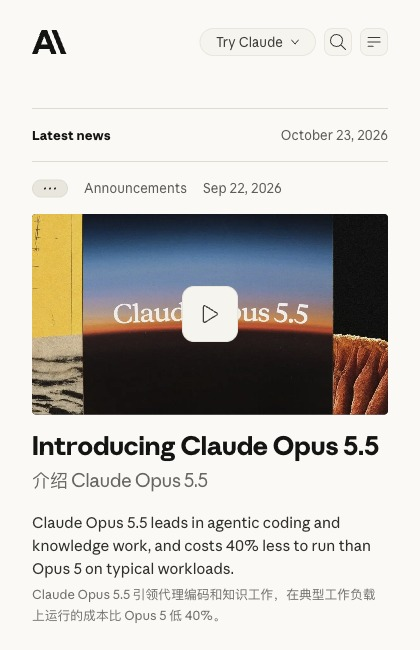
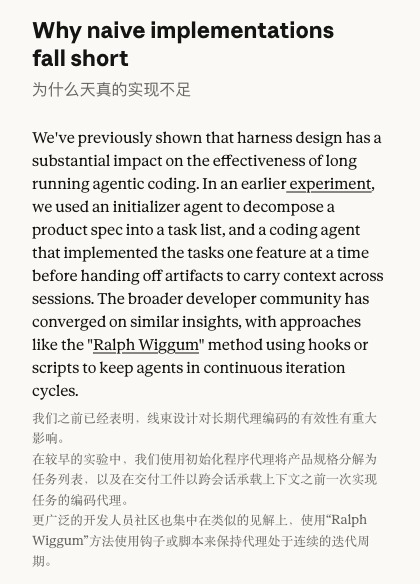
Clarify translation direction preparation and refresh reading example

diff --git a/src/ui/model-packs.ts b/src/ui/model-packs.ts
@@ -13,7 +13,7 @@ const SAMPLES: Record<SourceLanguage, string> = {
 type Key = SourceLanguage | 'detector';
 interface Pack {
   key: Key; availability: Availability; status: string; progress?: number;
-  phase: 'idle' | 'loading' | 'ready' | 'error'; controller?: AbortController;
+  phase: 'checking' | 'idle' | 'loading' | 'ready' | 'error'; controller?: AbortController;
   done?: Promise<void>; session?: NativeTranslator | NativeDetector;
 }
 
@@ -35,7 +35,7 @@ export class ModelPacks {
     this.sources = [...sources];
     for (const [key, pack] of this.packs) if (key !== 'detector' && !sources.includes(key)) { this.cancel(pack); this.packs.delete(key); }
     const keys: Key[] = [...sources, 'detector']; const apis = nativeAPIs(); const epoch = ++this.epoch;
-    for (const key of keys) if (!this.packs.has(key)) this.packs.set(key, { key, availability: 'downloadable', phase: 'idle', status: '正在检查…' });
+    for (const key of keys) if (!this.packs.has(key)) this.packs.set(key, { key, availability: 'downloadable', phase: 'checking', status: '正在检查…' });
     this.render();
     await Promise.all(keys.map(async key => {
       const pack = this.packs.get(key)!; if (pack.controller || pack.phase === 'ready') return;
@@ -44,7 +44,9 @@ export class ModelPacks {
       const availability = await probe?.catch(() => 'unavailable' as const) ?? 'unavailable';
       if (epoch !== this.epoch || pack.controller || !this.packs.has(key)) return;
       pack.availability = availability; pack.phase = availability === 'available' ? 'ready' : 'idle';
-      pack.status = availability === 'available' ? '已就绪' : availability === 'unavailable' ? '当前浏览器暂不支持' : availability === 'downloading' ? '下载尚未完成，点击继续' : '需要下载'; this.render();
+      // Chrome may report downloadable even when resources are cached. Only a
+      // native downloadprogress event is presented as download progress.
+      pack.status = availability === 'available' ? '已就绪' : availability === 'unavailable' ? '当前浏览器暂不支持' : '待准备'; this.render();
     }));
     this.render();
   }
@@ -62,8 +64,8 @@ export class ModelPacks {
         card = document.createElement('div'); card.className = `pack-card${key === 'detector' ? ' detector-card' : ''}`; card.dataset.language = key;
         const top = document.createElement('div'); top.className = 'pack-top';
         const info = document.createElement('div'); info.className = 'pack-info';
-        const name = document.createElement('div'); name.className = 'pack-name'; name.textContent = key === 'detector' ? '语言识别包' : languageLabel(key);
-        name.title = key === 'detector' ? '所有语言共用' : `${languageLabel(key)} → ${languageLabel(this.target)}`;
+        const name = document.createElement('div'); name.className = 'pack-name'; name.textContent = key === 'detector' ? '语言识别' : `${languageLabel(key)} → ${languageLabel(this.target)}`;
+        name.title = key === 'detector' ? '所有翻译方向共用' : name.textContent;
         const status = document.createElement('div'); status.className = 'pack-status'; status.setAttribute('role', 'status');
         info.append(name, status);
         const button = document.createElement('button'); button.type = 'button'; button.className = 'button secondary small pack-action';
@@ -79,38 +81,48 @@ export class ModelPacks {
       const status = card.querySelector<HTMLElement>('.pack-status')!;
       status.dataset.state = pack.phase; status.textContent = pack.status;
       const button = card.querySelector<HTMLButtonElement>('button')!;
-      const action = pack.controller ? '取消' : pack.phase === 'ready' ? '检查' : pack.phase === 'error' ? '重试' : '下载';
-      const label = `${action}${key === 'detector' ? '语言识别包' : languageLabel(key) + '语言包'}`;
+      const direction = key === 'detector' ? '语言识别' : `${languageLabel(key)} → ${languageLabel(this.target)}`;
+      const action = pack.controller ? '取消准备' : pack.phase === 'ready' ? '重新检查' : pack.phase === 'error' ? '重试准备' : '准备';
+      const label = `${action}${direction}`;
       button.setAttribute('aria-label', label); button.title = label; button.dataset.state = pack.phase;
-      button.disabled = pack.availability === 'unavailable' || key === this.target;
+      button.disabled = pack.phase === 'checking' || pack.availability === 'unavailable' || key === this.target;
       const progress = button.querySelector<SVGSVGElement>('svg')!;
       progress.style.display = pack.controller ? '' : 'none'; progress.classList.toggle('indeterminate', pack.progress === undefined);
-      progress.setAttribute('aria-label', `${key === 'detector' ? '语言识别包' : languageLabel(key)}下载进度`);
+      progress.setAttribute('aria-label', `${direction}${pack.progress === undefined ? '准备' : '下载'}进度`);
       if (pack.progress !== undefined) { progress.setAttribute('aria-valuenow', String(Math.round(pack.progress * 100))); progress.setAttribute('aria-valuetext', `${Math.round(pack.progress * 100)}%`); }
       else { progress.removeAttribute('aria-valuenow'); progress.setAttribute('aria-valuetext', '正在准备'); }
       (progress.querySelector('.circle-fill') as SVGCircleElement).style.strokeDashoffset = String(100 - (pack.progress ?? .22) * 100);
       let symbol = button.querySelector<HTMLElement>('.pack-symbol');
       if (!symbol) { symbol = document.createElement('span'); symbol.className = 'pack-symbol'; symbol.setAttribute('aria-hidden', 'true'); button.append(symbol); }
-      symbol.textContent = pack.controller ? '×' : key === this.target ? '—' : pack.phase === 'ready' ? '✓' : pack.phase === 'error' ? '↻' : '↓';
+      symbol.textContent = pack.controller ? '×' : key === this.target ? '—' : pack.phase === 'ready' ? '✓' : pack.phase === 'error' ? '重试' : '准备';
       if (this.host.children[index] !== card) this.host.insertBefore(card, this.host.children[index] ?? null);
     });
     const ready = this.ready(); const all = this.sources.every(source => this.packs.get(source)?.phase === 'ready') && detector?.phase === 'ready';
-    this.summary.textContent = this.sources.every(source => source === this.target) ? '源语言和目标语言相同，无需翻译。' : all ? '所选语言包已就绪' : ready ? '已就绪的语言可以使用，其余语言需先下载语言包。' : '首次使用需下载语言包，完成后在本地翻译。';
+    const checking = [...this.packs.values()].some(pack => pack.phase === 'checking');
+    const loading = [...this.packs.values()].some(pack => pack.controller);
+    const supported = this.sources.some(source => source !== this.target && this.packs.get(source)?.availability !== 'unavailable');
+    this.summary.textContent = this.sources.every(source => source === this.target) ? '源语言和目标语言相同，无需翻译。'
+      : checking ? '正在检查当前翻译方向…'
+      : all ? '所选翻译方向已就绪'
+      : loading ? '正在准备，已有模型会复用，缺少时按需下载。'
+      : ready ? '已就绪的方向可以使用，其余方向需先准备。'
+      : !supported ? '当前浏览器暂不支持所选翻译方向。'
+      : '点击“准备”启用当前方向；已有模型会复用，缺少时按需下载。';
     this.changed(ready);
   }
   private cancel(pack: Pack): void {
     pack.controller?.abort(); pack.controller = undefined; pack.session?.destroy(); pack.session = undefined;
-    if (pack.phase === 'loading') { pack.phase = 'idle'; pack.status = '已取消，可继续下载'; pack.progress = undefined; }
+    if (pack.phase === 'loading') { pack.phase = 'idle'; pack.status = '已取消，可继续准备'; pack.progress = undefined; }
   }
   private start(pack: Pack): void {
-    if (!pack || pack.controller || pack.availability === 'unavailable') return;
+    if (!pack || pack.phase === 'checking' || pack.controller || pack.availability === 'unavailable') return;
     const controller = new AbortController(); pack.controller = controller; pack.phase = 'loading'; pack.progress = undefined; pack.status = '正在准备…';
     const apis = nativeAPIs();
     const current = () => pack.controller === controller && !controller.signal.aborted && this.packs.get(pack.key) === pack;
     const monitor = (m: import('../providers/native-types').ProgressMonitor) => m.addEventListener('downloadprogress', event => {
       if (!current() || !Number.isFinite(event.loaded)) return;
       pack.progress = Math.min(1, Math.max(pack.progress ?? 0, event.loaded));
-      pack.status = pack.progress === 1 ? '下载完成，正在准备…' : `正在下载 · ${Math.round(pack.progress * 100)}%`; this.render();
+      pack.status = pack.progress === 1 ? '正在完成准备…' : `正在下载 · ${Math.round(pack.progress * 100)}%`; this.render();
     });
     // Do not await availability here: create must retain Chrome's transient activation.
     let creating: Promise<NativeTranslator | NativeDetector>;
@@ -122,7 +134,7 @@ export class ModelPacks {
       session = await creating;
       if (!current()) { session.destroy(); return; }
       pack.session = session;
-      pack.status = '正在验证…'; this.render();
+      pack.status = '正在完成准备…'; this.render();
       if (pack.key === 'detector') {
         const result = await (session as NativeDetector).detect(SAMPLES.en, { signal: controller.signal });
         if (!result.length) throw new Error('empty_detection');

diff --git a/tests/model-packs.test.ts b/tests/model-packs.test.ts
@@ -1,0 +1,97 @@
+import { beforeEach, describe, expect, it, vi } from 'vitest';
+import { ModelPacks } from '../src/ui/model-packs';
+import type { Availability, NativeTranslator, ProgressMonitor } from '../src/providers/native-types';
+
+const availability = vi.fn<(options: { sourceLanguage: string; targetLanguage: string }) => Promise<Availability>>();
+const create = vi.fn();
+let host: HTMLElement;
+let summary: HTMLElement;
+let changed: ReturnType<typeof vi.fn<(ready: boolean) => void>>;
+let packs: ModelPacks;
+const session = (): NativeTranslator => ({ translate: vi.fn(async () => '译文'), destroy: vi.fn() });
+const card = (source = 'en'): HTMLElement => host.querySelector(`[data-language="${source}"]`)!;
+const action = (source = 'en'): HTMLButtonElement => card(source).querySelector('button')!;
+
+beforeEach(() => {
+  availability.mockReset().mockResolvedValue('downloadable'); create.mockReset();
+  vi.stubGlobal('Translator', { availability, create });
+  vi.stubGlobal('LanguageDetector', { availability: vi.fn(async () => 'available') });
+  vi.stubGlobal('chrome', { runtime: { sendMessage: vi.fn(async () => ({})) } });
+  document.body.innerHTML = '<div id="packs"></div><p id="summary"></p>';
+  host = document.getElementById('packs')!; summary = document.getElementById('summary')!; changed = vi.fn();
+  packs = new ModelPacks(host, summary, changed);
+});
+
+describe('translation direction preparation', () => {
+  it('does not treat privacy-limited availability as a confirmed download', async () => {
+    let complete!: (translator: NativeTranslator) => void;
+    create.mockImplementation(() => new Promise<NativeTranslator>(resolve => { complete = resolve; }));
+    await packs.setSources(['en'], 'es');
+    expect(card().querySelector('.pack-name')?.textContent).toBe('英语 → 西班牙语');
+    expect(card().querySelector('.pack-status')?.textContent).toBe('待准备');
+    expect(create).not.toHaveBeenCalled();
+    action().click();
+    expect(action().getAttribute('aria-label')).toBe('取消准备英语 → 西班牙语');
+    expect(card().querySelector('.pack-status')?.textContent).toBe('正在准备…');
+    expect(card().querySelector('svg')?.hasAttribute('aria-valuenow')).toBe(false);
+    complete(session());
+    await vi.waitFor(() => expect(card().querySelector('.pack-status')?.textContent).toBe('已就绪'));
+    expect(card().textContent).not.toContain('正在下载');
+  });
+
+  it('uses only native progress and rejects late progress after a target change', async () => {
+    let emit!: (event: { loaded: number }) => void;
+    let complete!: (translator: NativeTranslator) => void;
+    let signal!: AbortSignal;
+    create.mockImplementation(options => {
+      signal = options.signal;
+      options.monitor({ addEventListener: (_: string, listener: typeof emit) => { emit = listener; } } satisfies ProgressMonitor);
+      return new Promise<NativeTranslator>(resolve => { complete = resolve; });
+    });
+    await packs.setSources(['en'], 'es'); action().click(); emit({ loaded: .28 });
+    expect(card().querySelector('.pack-status')?.textContent).toBe('正在下载 · 28%');
+    expect(card().querySelector('svg')?.getAttribute('aria-valuenow')).toBe('28');
+    expect((card().querySelector('.circle-fill') as SVGElement).style.strokeDashoffset).toBe('72');
+    availability.mockResolvedValue('available');
+    await packs.setSources(['en'], 'zh-CN');
+    expect(signal.aborted).toBe(true);
+    emit({ loaded: .9 });
+    const stale = session(); complete(stale);
+    await vi.waitFor(() => expect(stale.destroy).toHaveBeenCalled());
+    expect(stale.translate).not.toHaveBeenCalled();
+    expect(card().querySelector('.pack-name')?.textContent).toBe('英语 → 简体中文');
+    expect(card().querySelector('.pack-status')?.textContent).toBe('已就绪');
+    expect(card().querySelector('svg')?.hasAttribute('aria-valuenow')).toBe(false);
+  });
+
+  it('rechecks a returning direction and reuses availability without creating another translator', async () => {
+    availability.mockImplementation(async options => options.targetLanguage === 'zh' ? 'available' : 'downloadable');
+    await packs.setSources(['en'], 'zh-CN');
+    expect(changed).toHaveBeenLastCalledWith(true);
+    await packs.setSources(['en'], 'es');
+    expect(changed).toHaveBeenLastCalledWith(false);
+    await packs.setSources(['en'], 'zh-CN');
+    expect(changed).toHaveBeenLastCalledWith(true);
+    expect(availability.mock.calls.map(([options]) => options.targetLanguage)).toEqual(['zh', 'es', 'zh']);
+    expect(create).not.toHaveBeenCalled();
+  });
+
+  it('keeps preparation disabled while the browser checks availability', async () => {
+    let finish!: (value: Availability) => void;
+    availability.mockImplementation(() => new Promise<Availability>(resolve => { finish = resolve; }));
+    const checking = packs.setSources(['en'], 'es');
+    expect(action().disabled).toBe(true); action().click(); expect(create).not.toHaveBeenCalled();
+    finish('downloadable'); await checking;
+    expect(action().disabled).toBe(false);
+    expect(card().querySelector('.pack-status')?.textContent).toBe('待准备');
+  });
+
+  it('supports retry after preparation fails without inventing progress', async () => {
+    create.mockRejectedValueOnce(new Error('temporary failure')).mockResolvedValueOnce(session());
+    await packs.setSources(['en'], 'es'); action().click();
+    await vi.waitFor(() => expect(action().textContent).toBe('重试'));
+    expect(card().querySelector('svg')?.hasAttribute('aria-valuenow')).toBe(false);
+    action().click(); await vi.waitFor(() => expect(card().querySelector('.pack-status')?.textContent).toBe('已就绪'));
+    expect(create).toHaveBeenCalledTimes(2);
+  });
+});

diff --git a/src/ui/options.html b/src/ui/options.html
@@ -9,18 +9,18 @@
         <h1>网页对照翻译</h1>
         <p class="intro-copy">保留原文、逐段显示译文的浏览器插件，帮助你阅读外文网站，也能随时选中词句查译。</p>
         <figure class="reading-scene">
-          <a class="reading-shot" href="images/reading-example.jpg" target="_blank" title="点击放大" aria-label="放大查看网页对照翻译截图"><img src="images/reading-example.jpg" width="420" height="650" alt="Anthropic 官网在英文标题和段落下方显示 Readside 生成的中文译文"></a>
-          <figcaption>实际网页效果 · <a href="https://www.anthropic.com/news" target="_blank" rel="noreferrer">anthropic.com ↗</a></figcaption>
+          <a class="reading-shot" href="images/reading-example.jpg" target="_blank" title="点击放大" aria-label="放大查看网页对照翻译截图"><img src="images/reading-example.jpg" width="420" height="584" alt="Anthropic 研究文章在英文标题和正文下方显示 Readside 生成的中文译文"></a>
+          <figcaption>文章对照示例 · <a href="https://www.anthropic.com/research/harness-design-long-running-apps" target="_blank" rel="noreferrer">anthropic.com ↗</a></figcaption>
         </figure>
       </aside>
       <div class="preferences" aria-label="阅读设置">
-        <section class="setting-section"><h2>翻译语言</h2><div class="options-language"><div><span class="field-label">源语言（可多选）</span><div id="source" class="product-select"></div></div><span class="language-arrow" aria-hidden="true">→</span><div><span class="field-label">目标语言</span><div id="target" class="product-select"></div></div></div><p class="helper">只翻译识别为源语言的内容。</p><div id="language-packs" class="language-packs" aria-label="语言包"></div><p id="engine-state" class="engine-state" role="status">正在检查语言包…</p></section>
+        <section class="setting-section"><h2>翻译语言</h2><div class="options-language"><div><span class="field-label">源语言（可多选）</span><div id="source" class="product-select"></div></div><span class="language-arrow" aria-hidden="true">→</span><div><span class="field-label">目标语言</span><div id="target" class="product-select"></div></div></div><p class="helper">只翻译识别为源语言的内容。</p><div id="language-packs" class="language-packs" aria-label="翻译方向准备"></div><p id="engine-state" class="engine-state" role="status">正在检查翻译方向…</p></section>
         <section class="setting-section"><h2>自动翻译</h2><fieldset class="choice-row automatic-choice" id="auto-controls" disabled><legend>自动翻译网页</legend><div class="radio-options"><label><input id="auto-on" name="auto" type="radio" value="on">开启</label><label><input id="auto-off" name="auto" type="radio" value="off">关闭</label></div></fieldset><fieldset class="choice-row" id="all-sites-controls" disabled><legend>在所有网站自动翻译</legend><div class="radio-options"><label><input id="all-sites-yes" name="all-sites" type="radio" value="on">是</label><label><input id="all-sites-no" name="all-sites" type="radio" value="off">否</label></div></fieldset><p id="permission-state" class="helper"></p></section>
         <section class="setting-section"><h2>阅读设置</h2><fieldset class="choice-row selection-choice"><legend>选择词句后查译</legend><div class="radio-options"><label><input id="selection-on" name="selection" type="radio" value="on">开启</label><label><input id="selection-off" name="selection" type="radio" value="off">关闭</label></div></fieldset><div class="setting-line"><span>译文最小字号</span><div id="font-size" class="product-select font-select"></div></div></section>
         <section class="setting-section" id="rules-section" hidden><h2>已设置的网站</h2><div id="site-rules" class="rules-list"></div></section>
         <div class="settings-bottom"><button id="clear-cache" class="button secondary small">清除翻译缓存</button><p id="message" class="message" role="status" hidden></p></div>
       </div>
     </main>
-    <footer class="options-footer"><div><a href="https://github.com/wuyi4514/readside" target="_blank" rel="noreferrer">GitHub</a><a href="https://github.com/wuyi4514/readside/blob/main/PRIVACY.md" target="_blank" rel="noreferrer">隐私说明</a></div><span id="version">v0.2.3</span></footer>
+    <footer class="options-footer"><div><a href="https://github.com/wuyi4514/readside" target="_blank" rel="noreferrer">GitHub</a><a href="https://github.com/wuyi4514/readside/blob/main/PRIVACY.md" target="_blank" rel="noreferrer">隐私说明</a></div><span id="version">v0.2.4</span></footer>
   </div><script type="module" src="options.js"></script>
 </body></html>

diff --git a/src/ui/ui.css b/src/ui/ui.css
@@ -1,4 +1,5 @@
 @charset "UTF-8";
+button{appearance:none}
 :root{color-scheme:light dark;--bg:#f6f7f9;--surface:#fff;--ink:#202124;--muted:#666b74;--line:#e6e8ec;--primary:#25272c;--primary-ink:#fff;--accent:#3266e8;--hover:#f2f4f7;--error:#b43a34;--radius:10px;font-family:-apple-system,BlinkMacSystemFont,"Segoe UI","PingFang SC","Microsoft YaHei",sans-serif;font-size:14px;font-weight:400;line-height:1.5;color:var(--ink);background:var(--bg);font-synthesis:none}
 *{box-sizing:border-box}body{margin:0}h1,h2,p{margin:0}button,input{font:inherit}button,input,a{-webkit-tap-highlight-color:transparent}button{color:inherit}button{cursor:pointer}button:disabled{cursor:default;opacity:.5}a{color:inherit;text-decoration:none}a:hover{text-decoration:underline}button:focus-visible,a:focus-visible,input:focus-visible{outline:3px solid color-mix(in srgb,var(--accent) 45%,transparent);outline-offset:3px}[hidden]{display:none!important}
 .brand{display:flex;align-items:center;gap:10px;text-decoration:none!important}.brand img{flex:none}.brand strong{font-size:20px;font-weight:650;letter-spacing:-.55px}.icon-button{display:grid;place-items:center;width:36px;height:36px;border:1px solid var(--line);background:var(--surface);border-radius:9px;color:var(--muted)}.icon-button:hover{color:var(--ink);background:var(--hover)}
@@ -26,3 +27,5 @@
 .pack-action.button{position:relative;display:grid;place-items:center;width:36px;height:36px;min-height:36px;padding:0;border:0;border-radius:50%;box-shadow:none;background:transparent;color:var(--accent)}.pack-action.button:hover:not(:disabled){background:var(--hover)}.pack-symbol{font-size:18px;font-weight:400;line-height:1}.pack-action[data-state=loading] .pack-symbol{font-size:15px;color:var(--muted)}.pack-circle{position:absolute;inset:0;width:36px;height:36px;transform:rotate(-90deg);fill:none;stroke-width:2.4}.circle-track{stroke:color-mix(in srgb,var(--accent) 12%,transparent)}.circle-fill{stroke:var(--accent);stroke-linecap:round;stroke-dasharray:100;transition:stroke-dashoffset .16s linear}.pack-circle.indeterminate{animation:status-spin 1s linear infinite}
 @media(max-width:400px){.options .language-packs{grid-template-columns:1fr 1fr}.pack-card{padding:8px}}
 @media(prefers-reduced-motion:reduce){.pack-circle.indeterminate{animation:none}.circle-fill{transition:none}}
+
+.pack-action.button[data-state=idle],.pack-action.button[data-state=checking],.pack-action.button[data-state=error]{width:auto;min-width:44px;height:28px;min-height:28px;padding:0 8px;border:1px solid color-mix(in srgb,var(--accent) 16%,transparent);border-radius:7px;background:color-mix(in srgb,var(--accent) 5%,var(--surface))}.pack-action[data-state=idle] .pack-symbol,.pack-action[data-state=checking] .pack-symbol,.pack-action[data-state=error] .pack-symbol{font-size:12px;font-weight:500;line-height:18px}.pack-action.button[data-state=idle]:hover:not(:disabled),.pack-action.button[data-state=error]:hover:not(:disabled){background:color-mix(in srgb,var(--accent) 10%,var(--surface));border-color:color-mix(in srgb,var(--accent) 35%,transparent)}.pack-name{overflow-wrap:anywhere}

diff --git a/src/ui/popup.ts b/src/ui/popup.ts
@@ -12,7 +12,7 @@ let engineReady = false;
 const source = new ProductSelect(element('source'), { label: '源语言', multiple: true, onChange: async values => {
   try {
     await update({ sourceLanguages: values as SourceLanguage[] }); engineReady = await anyLanguageReady(settings.sourceLanguages, settings.targetLanguage);
-    if (!engineReady) message('所选语言需要下载语言包，请打开设置。'); await refresh();
+    if (!engineReady) message('所选翻译方向尚未就绪，请在设置中准备。'); await refresh();
   } catch (error) { message(errorText(error), true); throw error; }
 } });
 const target = new ProductSelect(element('target'), { label: '目标语言', onChange: async values => {
@@ -36,10 +36,10 @@ function renderStatus(status: PageStatus, fallback?: string): void {
     off: '自动翻译已关闭', paused: '此页已恢复原文', working: '正在翻译…',
     ready: status.translated ? `已对照 ${status.translated} 块内容` : '未发现可翻译的内容',
     partial: `已对照 ${status.translated} 块，部分内容未完成`,
-    'needs-download': '请先下载语言包', unsupported: '此页面或语言暂不支持',
+    'needs-download': '请先准备翻译方向', unsupported: '此页面或语言暂不支持',
   };
   const missing = status.missingLanguages?.map(code => LANGUAGES.find(l => l.code === code)?.label ?? code).join('、');
-  element('status-text').textContent = fallback ?? (missing ? `${missing}语言包未就绪，请在设置中下载` : label[status.state]);
+  element('status-text').textContent = fallback ?? (missing ? `${missing}翻译方向未就绪，请在设置中准备` : label[status.state]);
   element('retry').hidden = status.state !== 'partial';
 }
 async function pageMessage(command: Message, inject = false): Promise<PageStatus> {
@@ -56,7 +56,7 @@ async function refresh(): Promise<void> {
     const status = await pageMessage({ type: 'PR_GET_STATUS' });
     renderStatus(status, status.state === 'off' && settings.autoTranslate && !settings.autoTranslateAllPages && !selected ? '此网站尚未开启自动翻译' : undefined);
   } catch {
-    renderStatus(EMPTY_STATUS, !supported() ? '此页面不支持翻译' : !engineReady ? '请先在设置中下载语言包' : settings.autoTranslate ? '此网站尚未开启自动翻译' : '自动翻译已关闭');
+    renderStatus(EMPTY_STATUS, !supported() ? '此页面不支持翻译' : !engineReady ? '请先在设置中准备翻译方向' : settings.autoTranslate ? '此网站尚未开启自动翻译' : '自动翻译已关闭');
   }
 }
 async function update(patch: Partial<Settings>): Promise<void> {

diff --git a/src/background/action-icon.ts b/src/background/action-icon.ts
@@ -23,7 +23,7 @@ export async function updateAction(tabId: number, status: PageStatus): Promise<v
   const revision = (revisions.get(tabId) ?? 0) + 1; revisions.set(tabId, revision);
   const labels: Record<PageStatus['state'], string> = {
     working: `正在翻译 · 已完成 ${status.translated} 块`, ready: `已翻译 ${status.translated} 块`,
-    partial: '部分内容未完成，请打开弹窗查看', 'needs-download': '请先下载语言包', unsupported: '此页面或语言暂不支持',
+    partial: '部分内容未完成，请打开弹窗查看', 'needs-download': '请先准备翻译方向', unsupported: '此页面或语言暂不支持',
     off: '自动翻译已关闭', paused: '此页已恢复原文',
   };
   const imageData = status.state === 'working' ? await (working ??= workingIcon()) : undefined;

diff --git a/src/ui/automatic.ts b/src/ui/automatic.ts
@@ -16,7 +16,7 @@ export class AutomaticControls {
   constructor(private settings: () => Settings, private ready: () => boolean, private save: (patch: Partial<Settings>) => Promise<void>) {
     onChoice('auto', enabled => {
       if (this.pending) return;
-      if (enabled && !this.ready()) { message('请先在设置中下载语言包。', true); this.render(); return; }
+      if (enabled && !this.ready()) { message('请先在设置中准备翻译方向。', true); this.render(); return; }
       // Start the optional permission request directly in the actual input event.
       const request = enabled && this.settings().autoTranslateAllPages
         ? chrome.permissions.request({ origins: ['https://*/*'] }) : Promise.resolve(true);

diff --git a/docs/INSTALL.md b/docs/INSTALL.md
@@ -9,23 +9,24 @@
 ## 安装 Readside
 
 1. 打开 [Releases](https://github.com/wuyi4514/readside/releases/latest)。
-2. 下载 `readside-0.2.3.zip`，解压到准备长期保留的目录。
+2. 下载 `readside-0.2.4.zip`，解压到准备长期保留的目录。
 3. 在 Chrome 地址栏输入 `chrome://extensions`，打开右上角的“开发者模式”。
 4. 点击“加载已解压的扩展程序”，选择直接包含 `manifest.json` 的目录。
 5. 在 Chrome 扩展菜单中固定 Readside。
 
 GitHub 的 Source code 压缩包是源代码；安装时请使用名称以 `readside-` 开头的分发 ZIP。加载后请保留原目录的位置和文件。
 
-## 准备语言包
+## 准备翻译方向
 
 1. 点击 Readside 图标，再点击设置图标。
 2. 选择源语言与目标语言。源语言可多选，目标语言选择一种。
-3. 点击语言旁的下载按钮。圆环显示进度，圆环中的 × 可取消。
-4. 显示“已就绪”后，即可使用该方向的本地翻译。
+3. 找到对应的“源语言 → 目标语言”卡片，点击“准备”。已有模型由浏览器复用，缺少时按需下载。
+4. 准备时可点击 × 取消；实际下载时，圆环显示浏览器提供的进度。
+5. 显示“已就绪”后，即可使用该方向的本地翻译。
 
-默认方向为英语→简体中文。语言识别包由所有方向共用；与目标相同的源语言显示“无需翻译”。
+默认方向为英语→简体中文。切换目标后，卡片显示新方向的准备状态；“待准备”不代表旧模型被删除或一定需要重新下载。语言识别由所有方向共用，与目标相同的源语言显示“无需翻译”。
 
-首次下载时请保持设置页打开。Chrome 负责模型下载与存储，Readside 不需要 API Key。
+准备期间请保持设置页打开。Chrome 负责模型下载与存储，Readside 不需要 API Key。
 
 ## 设置自动翻译
 
